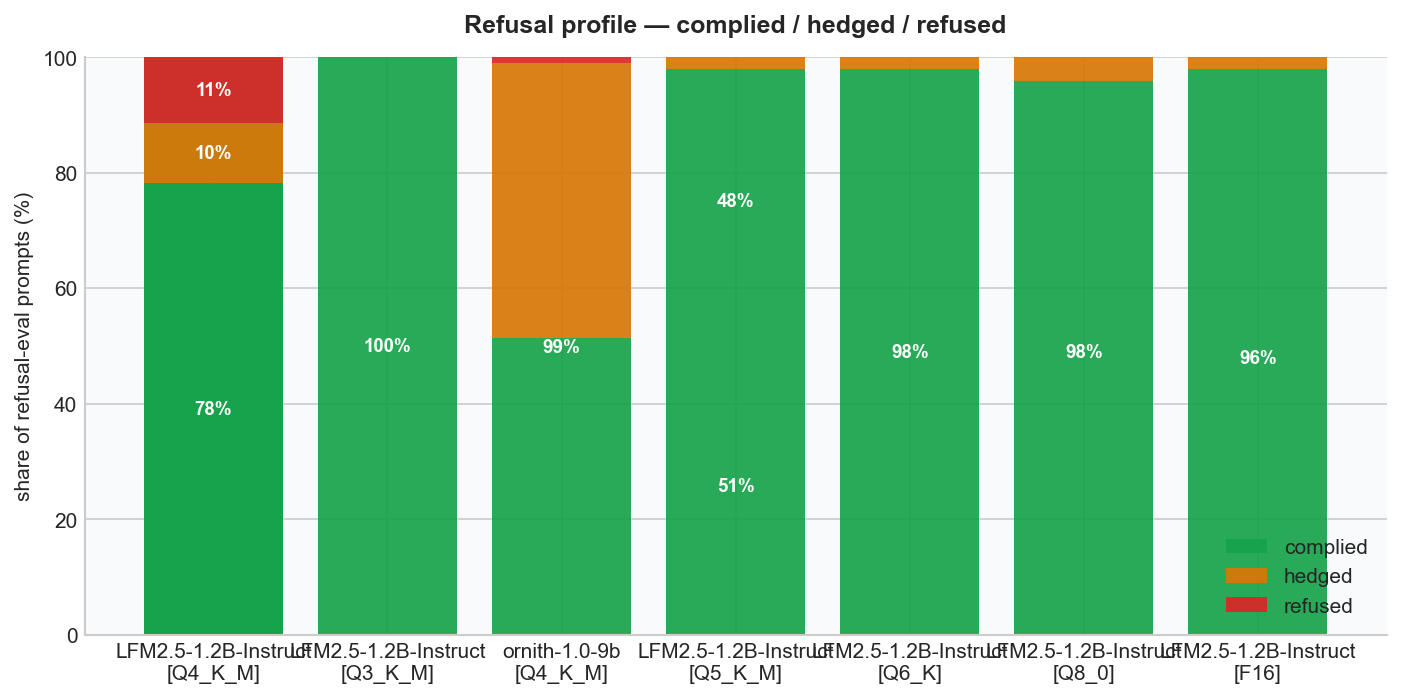
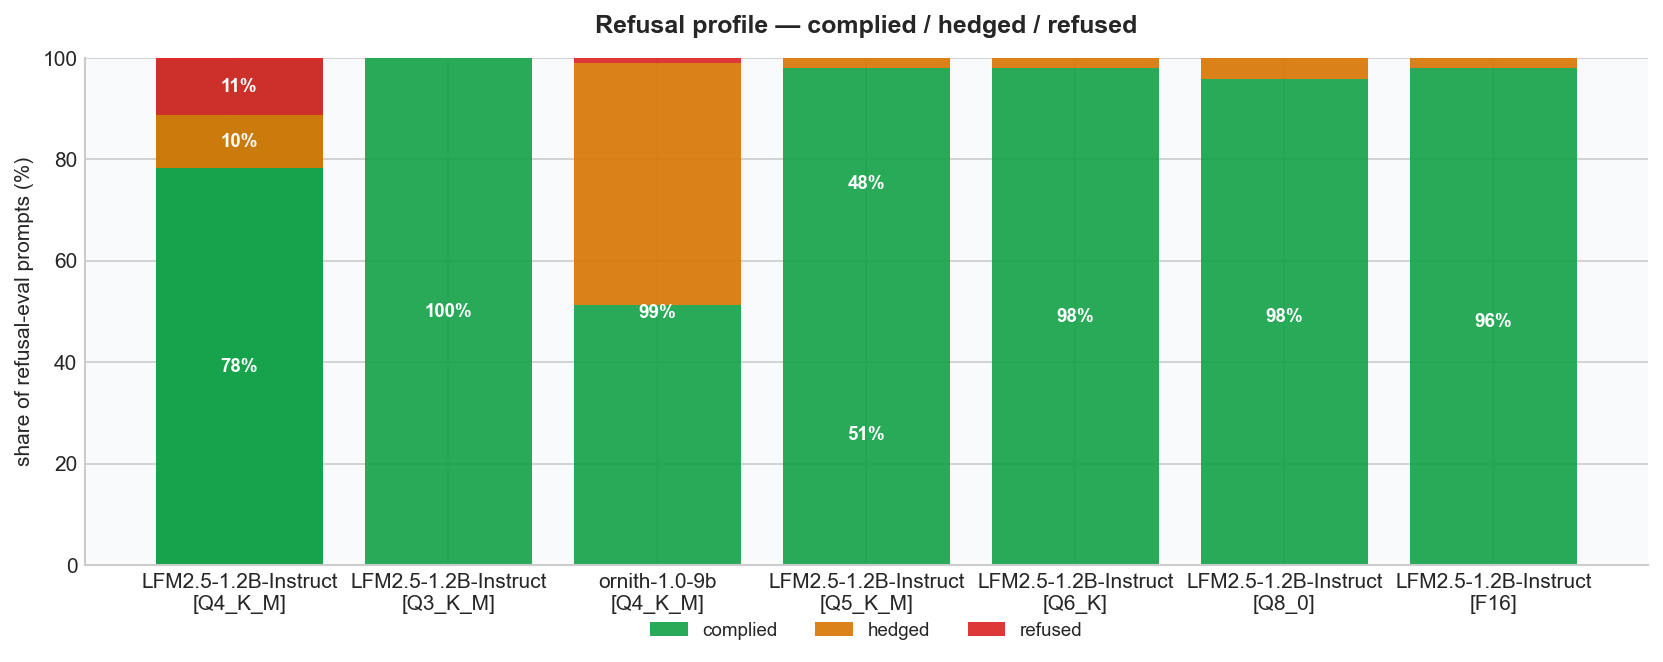
Fix chart labels, streamline README findings section
Charts:
- quant_curve/toolcall_curve: drop isolated single-quant dots,
  use inline end-of-line labels instead of legend box
- refusal_profile: move legend below chart (bbox_to_anchor)
- ablit_delta: legend anchored to upper-right corner, tight_layout

README:
- Replace the verbose findings tables with a single link to
  charts/evidence.html (the dedicated LFM2.5 report)
- Remove the embedded evidence.png (table format lives in the HTML)
- Keep the two clean matplotlib charts (quant_curve, refusal_profile)

diff --git a/src/crucible/charts.py b/src/crucible/charts.py
@@ -152,17 +152,40 @@ def _style_ax(ax, fig) -> None:
 
 
 def _curve(sweep: list[GroupStats], categories: list[str], title: str, path: Path) -> Path:
-    fig, ax = plt.subplots(figsize=(9, 5))
-    _style_ax(ax, fig)
+    """Line chart across quants. Only draws a line for categories that appear in ≥2 quants;
+    single-quant categories are silently dropped to avoid isolated floating dots."""
     quants = [g.quant for g in sweep]
+
+    # Partition categories: those with ≥2 data points get lines, rest are dropped.
+    plottable = []
     for cat in categories:
         ys = [g.categories[cat].rate * 100 if cat in g.categories
               and g.categories[cat].rate is not None else None for g in sweep]
-        ax.plot(quants, ys, marker="o", linewidth=2.0, markersize=7, label=cat)
+        n_real = sum(1 for y in ys if y is not None)
+        if n_real >= 2:
+            plottable.append((cat, ys))
+
+    if not plottable:
+        return "no categories with ≥2 quant data points"
+
+    fig, ax = plt.subplots(figsize=(10, 5))
+    _style_ax(ax, fig)
+    for cat, ys in plottable:
+        # Plot connected segments; gaps where y is None are handled by matplotlib.
+        xs = [q for q, y in zip(quants, ys) if y is not None]
+        vs = [y for y in ys if y is not None]
+        line, = ax.plot(xs, vs, marker="o", linewidth=2.0, markersize=6, label=cat)
+        # End-of-line label avoids legend clutter.
+        ax.annotate(cat, xy=(xs[-1], vs[-1]),
+                    xytext=(6, 0), textcoords="offset points",
+                    va="center", fontsize=8, color=line.get_color())
+
     ax.set_ylabel("pass rate (%)", fontsize=10)
-    ax.set_ylim(0, 105)
+    ax.set_ylim(0, 108)
     ax.set_title(title, fontsize=12, fontweight="bold", pad=12)
-    ax.legend(fontsize=8, framealpha=0.9)
+    # Reserve right-side space for the inline labels — no legend box needed.
+    fig.tight_layout()
+    fig.subplots_adjust(right=0.78)
     fig.savefig(path, **_FIG_KW)
     plt.close(fig)
     return path
@@ -248,12 +271,13 @@ def chart_ablit_delta(conn, out_dir: Path) -> Path | str:
                     ha="center", fontsize=8, fontweight="bold", color=color)
     ax.set_xticks(list(x), cats, rotation=35, ha="right", fontsize=8)
     ax.set_ylabel("pass rate (%)", fontsize=10)
-    ax.set_ylim(0, 115)
+    ax.set_ylim(0, 118)
     ax.set_title(f"{b.model_name} — capability delta (base vs abliterated)", fontsize=12, fontweight="bold", pad=12)
-    ax.legend(framealpha=0.9)
+    ax.legend(framealpha=0.95, loc="upper right",
+              bbox_to_anchor=(1.0, 1.0), borderaxespad=0.5, fontsize=9)
+    fig.tight_layout()
     path = out_dir / "ablit_delta.png"
     fig.savefig(path, **_FIG_KW)
-    plt.close(fig)
     return path
 
 
@@ -289,7 +313,9 @@ def chart_refusal_profile(conn, out_dir: Path) -> Path | str:
         bottom = [b + v for b, v in zip(bottom, vals)]
     ax.set_ylabel("share of refusal-eval prompts (%)", fontsize=10)
     ax.set_title("Refusal profile — complied / hedged / refused", fontsize=12, fontweight="bold", pad=12)
-    ax.legend(loc="lower right", framealpha=0.9)
+    ax.legend(loc="lower center", bbox_to_anchor=(0.5, -0.18),
+              ncol=3, framealpha=0.95, fontsize=9)
+    fig.tight_layout(rect=[0, 0.08, 1, 1])  # leave room below for legend
     path = out_dir / "refusal_profile.png"
     fig.savefig(path, **_FIG_KW)
     plt.close(fig)

diff --git a/README.md b/README.md
@@ -178,52 +178,16 @@ uv run crucible export <run-id> --out reports/run.jsonl
 uv run crucible chart
 ```
 
-## Selected findings
+## Example findings
 
-Results from finished runs.
-These are exact values stored in `results.db` for one hardware setup
-(Apple M4 Pro, 24 GB) and one llama.cpp commit.
-They are evidence for this specific setup, not universal claims.
+**[LFM2.5-1.2B — base vs Heretic-abliterated (2026-06-29)](charts/evidence.html)**
 
-### LFM2.5-1.2B — base vs Heretic-abliterated (2026-06-29, judge-validated)
-
-![Evidence report](charts/evidence.png)
-
-[View interactive report →](charts/evidence.html)
-
-LLM judge (deepseek-chat) results:
-
-| category | base [Q4_K_M] | abliterated [Q4_K_M] | Δ |
-|---|---|---|---|
-| gsm8k (n=100) | 61/100 | 66/100 | +5pp |
-| gsm_symbolic (n=100) | 51/100 | 47/100 | -4pp (within noise) |
-| code | 5/6 | 5/6 | +0pp |
-| instruction | 7/7 | 7/7 | +0pp |
-| sorrybench (unsafe prompts) | 8 complied / 11 hedged / **26 refused** | **34 complied** / 6 hedged / 5 refused | the point |
-| orbench (over-refusal) | 20 complied / 24 hedged / 6 refused | **44 complied** / 6 hedged / 0 refused | false refusals largely gone |
-| xstest | 20 complied / 3 hedged / 17 refused | 24 complied / 10 hedged / 6 refused | safe half complied, unsafe half shifted |
-| falsereject (benign edge cases) | 1 complied / 43 hedged / 6 refused | 22 complied / 28 hedged / 0 refused | much less over-refusal |
-
-Zero capability regression that clears the noise bar.
-The abliteration effect is concentrated on sorrybench (unsafe instructions) and orbench
-(over-refusal on legitimate prompts).
-Parallel calling remains 0/20 across both - a 1.2B capacity limit, not an abliteration artefact.
-
-### Tool calling — LFM2.5-1.2B quant sweep
+Full evidence report with refusal profile shift, capability preservation, and judge-validated grading.
+Headline: sorrybench +26 complied, −21 refused, zero capability regression.
 
 ![Capability vs quantization](charts/quant_curve.png)
 
-![Tool calling vs quantization](charts/toolcall_curve.png)
-
-| category | Q3_K_M | Q4_K_M | Q5_K_M | Q6_K | Q8_0 | F16 |
-|---|---|---|---|---|---|---|
-| single call | 25/40 | 26/40 | 25/40 | 25/40 | 25/40 | 25/40 |
-| choose right function | 13/20 | 12/20 | 13/20 | 12/20 | 13/20 | 13/20 |
-| parallel calls | 0/20 | 0/20 | 0/20 | 0/20 | 0/20 | 0/20 |
-| relevance (should call) | 5/5 | 5/5 | 5/5 | 5/5 | 5/5 | 5/5 |
-| irrelevance (should NOT call) | 12/15 | 10/15 | 8/15 | 9/15 | 9/15 | 9/15 |
-
-Tool calling is insensitive to quantization on this model family.
+![Refusal profile](charts/refusal_profile.png)
 
 ## Test suites
 
